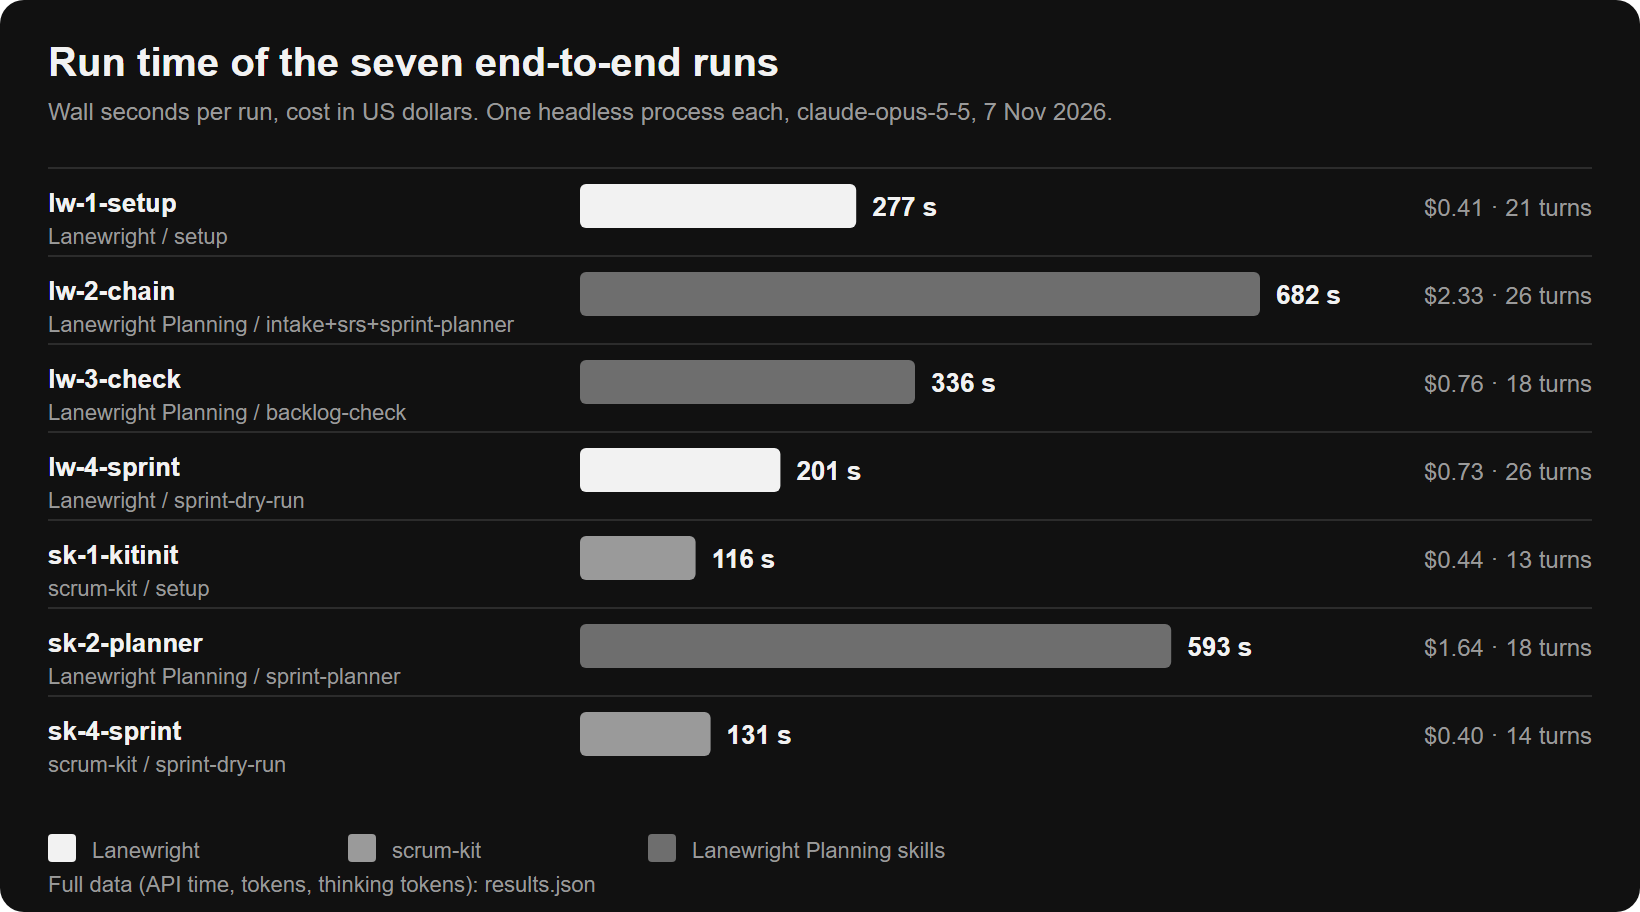
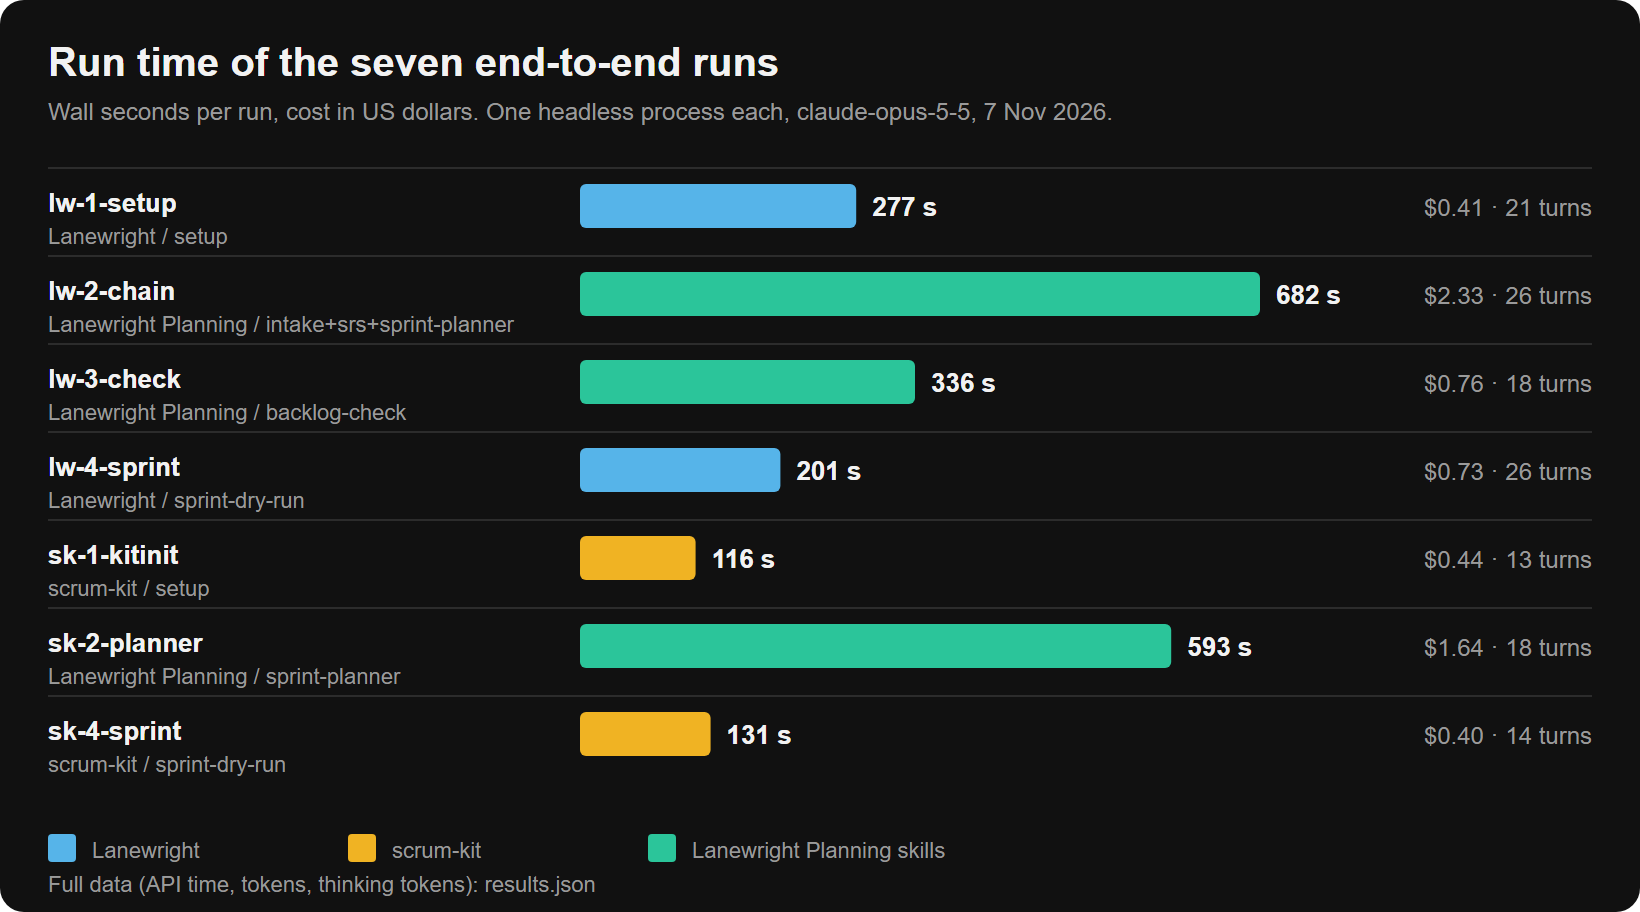
bench: warna grafik yang mudah dibedakan (biru, kuning, hijau; aman untuk buta warna)

diff --git a/bench/planning-2026-11-07/charts.py b/bench/planning-2026-11-07/charts.py
@@ -11,11 +11,11 @@ H = TOP + ROW * len(runs) + 56
 scale = (W - LEFT - RIGHT) / max(r["wall_seconds"] for r in runs)
 STYLE = """<style>
   .bg{fill:#FFFFFF} .fg{fill:#111111} .mu{fill:#6B6B6B} .ln{stroke:#E3E3E3}
-  .lw{fill:#111111} .sk{fill:#8A8A8A} .pl{fill:#C9C9C9}
+  .lw{fill:#0072B2} .sk{fill:#E69F00} .pl{fill:#009E73}
   text{font-family:Inter,'Helvetica Neue',Arial,sans-serif}
   @media (prefers-color-scheme: dark){
     .bg{fill:#111111} .fg{fill:#F2F2F2} .mu{fill:#9A9A9A} .ln{stroke:#2C2C2C}
-    .lw{fill:#F2F2F2} .sk{fill:#9A9A9A} .pl{fill:#6E6E6E}
+    .lw{fill:#56B4E9} .sk{fill:#F0B323} .pl{fill:#2BC59A}
   }
 </style>"""
 KIND = {"Lanewright": "lw", "scrum-kit": "sk", "Lanewright Planning": "pl"}
